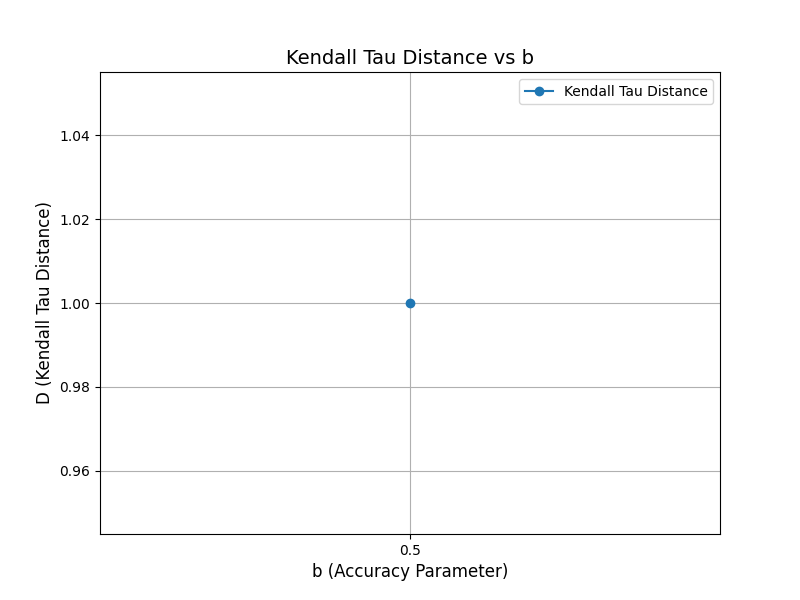
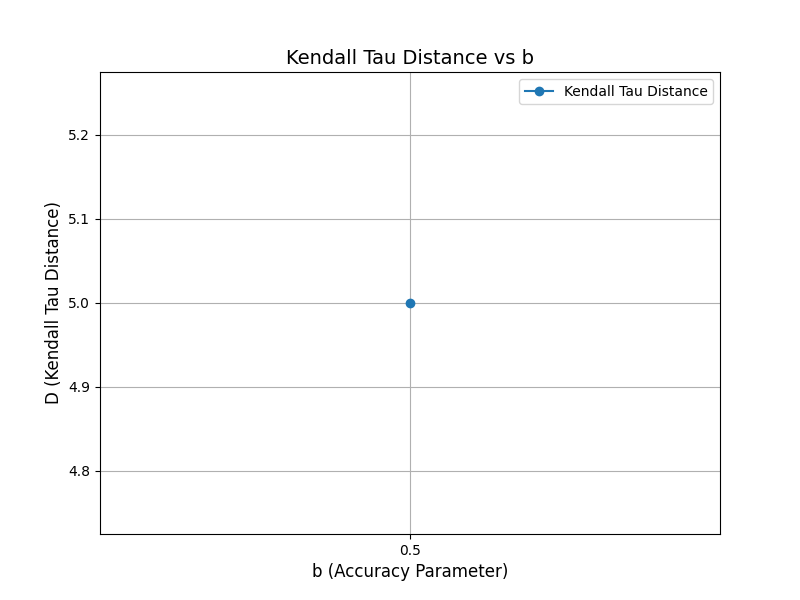
N=50

Changed region(s): [[0.0312, 0.33, 0.125, 0.69], [0.0625, 0.78, 0.125, 0.81], [0.0625, 0.21, 0.125, 0.24]]

diff --git a/main_b.py b/main_b.py
@@ -31,13 +31,11 @@ def generate_synthetic_data(N, M, L_0, b):
         #     int(L_0 + 0.2 * L_0)
         # ))
         ranking_length = L_0
-
-        print(f"ranked_indices: {ranked_indices}")
         
         for k in range(min(ranking_length, N)):
             R[i, ranked_indices[k]] = k + 1
         
-        print("R",R)
+    print(f"R: {R}")
     
 
     return phi, R_0, phi_prime, R
@@ -51,6 +49,7 @@ def compute_competition_matrix(R, N, M):
             for t in range(N):
                 if R[i, s] > 0 and R[i, t] > 0:
                     P_i[s, t] = 1 if R[i, s] <= R[i, t] else 0
+        print(f"P_i: {P_i}")
         A += P_i
     return A
 
@@ -63,11 +62,12 @@ if __name__ == '__main__':
     # ここを変える
     num_iterations = 1
     b_values = [0.1, 0.2, 0.3, 0.4, 0.5, 0.6, 0.7, 0.8, 0.9]
+    # b_values = [0.5]
     # -------------------------
     
     # 固定パラメータ
-    N = 100
-    M = 1000
+    N = 50
+    M = 500
     L_0 = [25]  # ここを変える
 
     # b 値ごとにループ
@@ -99,7 +99,7 @@ if __name__ == '__main__':
                 # MVR法
                 final_solution = MVR_method.iterative_constraint_relaxation(A)
                 g_mvr, R_mvr = MVR_method.generate_final_ranking_vector(final_solution)
-                MVR_D = MVR_method.calculate_kendall_tau_distance(R_mvr, R_0)
+                MVR_D = MVR_method.calculate_kendall_tau_distance(R_0 - 1, R_mvr - 1)
 
                 end_time = time.time()
                 elapsed_time = end_time - start_time
@@ -146,3 +146,17 @@ if __name__ == '__main__':
 
         pivoted_mvr.to_csv(f"MVR_D_L_0_{l_0}.csv", float_format="%.4f")
         print(f"\n結果を 'MVR_D_L_0_{l_0}.csv' に保存しました。")
+
+        phi_df = pd.DataFrame(phi, columns=["True Ability"])
+        R_0_df = pd.DataFrame(R_0, columns=["True Rank"])
+        phi_prime_df = pd.DataFrame(phi_prime, columns=[f"Candidate_{j+1}" for j in range(N)])
+        R_df = pd.DataFrame(R, columns=[f"Candidate_{j+1}" for j in range(N)])
+        A_df = pd.DataFrame(A, columns=[f"Candidate_{j+1}" for j in range(N)])
+        g_df = pd.DataFrame(g, columns=["g_j"])
+        R_hat_df = pd.DataFrame(R_hat, columns=["Final Rank"])
+        
+        phi_df.to_csv("true_ability.csv", index=False)#真の能力値(N×1)
+        R_0_df.to_csv("true_rank.csv", index=False)#真のランクリスト(N×1)
+        phi_prime_df.to_csv("displayed_ability.csv", index=False)#b_iから見たa_iの能力値(M×N)
+        R_df.to_csv("rankings.csv", index=False)#ランキング行列(M×N)
+        A_df.to_csv("competition_matrix.csv", index=False)#競争行列(N×N)

diff --git a/MVR_method.py b/MVR_method.py
@@ -175,7 +175,10 @@ def generate_final_ranking_vector(X):
 # ケンドールタウ距離を計算する関数
 # 入力: R_mvr (推定されたランキング), R_0 (真のランキング)
 # 出力: ケンドールタウ距離D
-def calculate_kendall_tau_distance(R_mvr, R_0):
+def calculate_kendall_tau_distance(R_0, R_mvr):
+    if len(R_0) != len(R_mvr):
+        raise ValueError("The input rankings must have the same length.")
+
     N = len(R_mvr)
     D = 0
     for i in range(N):
